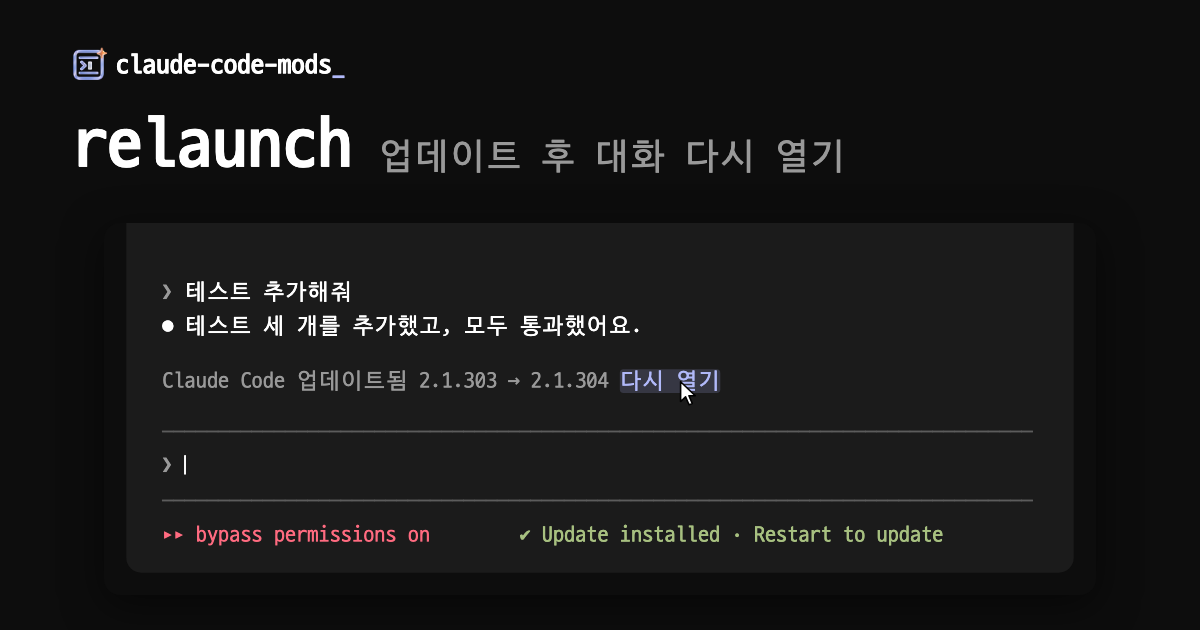
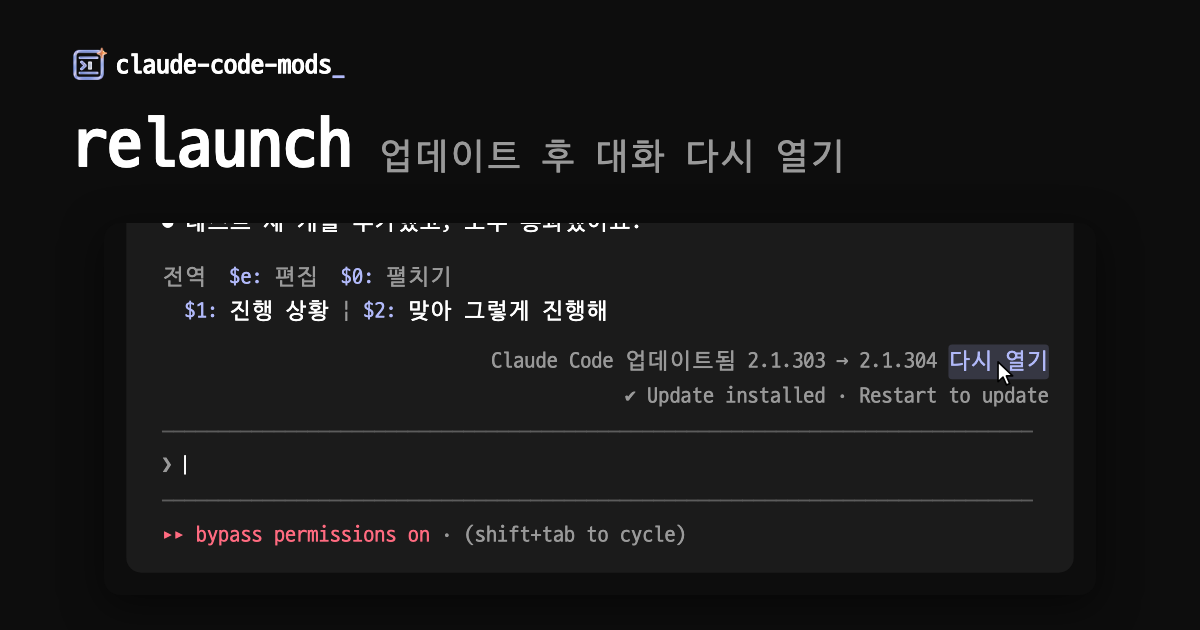
docs: 뱃지를 노션 보라 태그 색으로 바꾸고 relaunch 장면을 실제 화면에 맞추기
- macOS 전용, Orca 전용 뱃지를 shields.io 대신 저장소의 SVG로 바꿨다. shields.io는 글자색을
  정할 수 없어서다. 다크는 노션 다크 모드의 보라 태그 색(바탕 #3A2E46, 글자 #936DB0), 라이트는
  노션 라이트 모드의 보라 태그 바탕(#E8DEEE)에 작은 글씨가 읽히도록 조금 진하게 한 보라
  글자(#7D5C9F)를 쓴다. <picture>로 테마에 따라 바꾼다.
- relaunch 장면에서 모드의 업데이트 알림을 프리셋 아래 오른쪽에, Claude Code의 "Update
  installed" 알림을 입력창 바로 위 오른쪽에 두어 실제 화면과 맞췄다. Orca가 셸에 치는 명령도
  0.2.1처럼 `/bin/sh <임시 스크립트>`로 바꿨다.
- `/relaunch`를 쳐서 다시 여는 장면을 새로 만들어 relaunch 문서 사용법에 넣었다.

diff --git a/_layouts/default.html b/_layouts/default.html
@@ -291,9 +291,9 @@
     .doc table.cards td br:first-of-type { display: none; }
     .doc table.cards td > a + br + a { display: inline-block; margin: 14px 16px 2px; text-decoration: none; }
     .doc table.cards td b { font-size: 15.5px; font-weight: 600; color: var(--text); }
-    /* 모드 이름 옆 뱃지(macOS 전용 등). 카드의 장면 그림처럼 꽉 차지 않게 글자 높이로 나란히 둔다. */
-    .doc table.cards td > a + br + a + img { display: inline-block; width: auto; height: 20px; margin: 0 0 0 -8px; vertical-align: -4px; border-radius: 4px; }
-    .doc > h1 + p > img[src*="img.shields.io"] { height: 20px; border-radius: 4px; }
+    /* 모드 이름 옆 뱃지(macOS 전용 등, 노션 보라 태그 색). 카드의 장면 그림처럼 꽉 차지 않게 글자 높이로 나란히 둔다. */
+    .doc table.cards td > a + br + a + picture img { display: inline-block; width: auto; height: 22px; margin: 0 0 0 -8px; vertical-align: -5px; }
+    .doc > h1 + p > picture img { display: block; height: 22px; }
     .doc table.cards td sub { display: block; padding: 0 16px; font-size: 13.5px; line-height: 1.6; color: var(--text-2); vertical-align: baseline; }
 
     /* 검색 창 */

diff --git a/docs/relaunch.md b/docs/relaunch.md
@@ -1,6 +1,6 @@
 # relaunch
 
-<img alt="Orca 전용" src="https://img.shields.io/badge/Orca%20%EC%A0%84%EC%9A%A9-A78BFA?style=flat-square">
+<picture><source media="(prefers-color-scheme: dark)" srcset="./images/badges/orca-dark.svg"><img alt="Orca 전용" src="./images/badges/orca-light.svg" height="22"></picture>
 
 [← README로 돌아가기](../README.md)
 
@@ -28,6 +28,11 @@
 - `다시 열기`: Claude Code를 다시 시작합니다. 답변이 진행 중이면 끝난 뒤 다시 누르라고 알립니다.
 - `/relaunch`: Claude Code를 다시 시작합니다. 업데이트가 없어도 실행할 수 있고, 답변이 진행 중이면 끝난 뒤에 실행됩니다.
 - `/relaunch now`: 작업 중인 에이전트가 있어도 다시 시작합니다. 에이전트의 작업은 중단될 수 있습니다.
+
+<p><picture>
+<source media="(prefers-color-scheme: dark)" srcset="./images/showcase/relaunch-type-dark.gif">
+<img alt="입력창에 /relaunch를 치고 Enter를 누르면 같은 탭에서 새 버전으로 같은 대화가 열린다" src="./images/showcase/relaunch-type-light.gif" width="560">
+</picture></p>
 
 다시 열 수 없는 상황이면 Claude Code를 종료하지 않고, 이유와 직접 입력할 명령을 알려 줍니다.
 

diff --git a/docs/key-assist.md b/docs/key-assist.md
@@ -1,6 +1,6 @@
 # key-assist
 
-<img alt="macOS 전용" src="https://img.shields.io/badge/macOS%20%EC%A0%84%EC%9A%A9-A78BFA?style=flat-square">
+<picture><source media="(prefers-color-scheme: dark)" srcset="./images/badges/macos-dark.svg"><img alt="macOS 전용" src="./images/badges/macos-light.svg" height="22"></picture>
 
 [← README로 돌아가기](../README.md)
 
